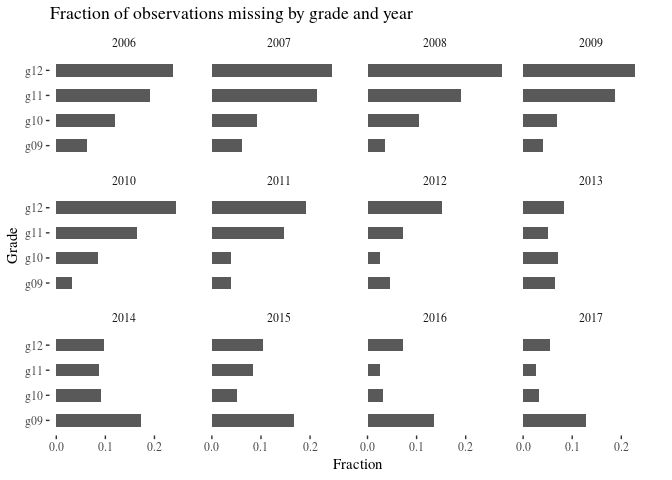
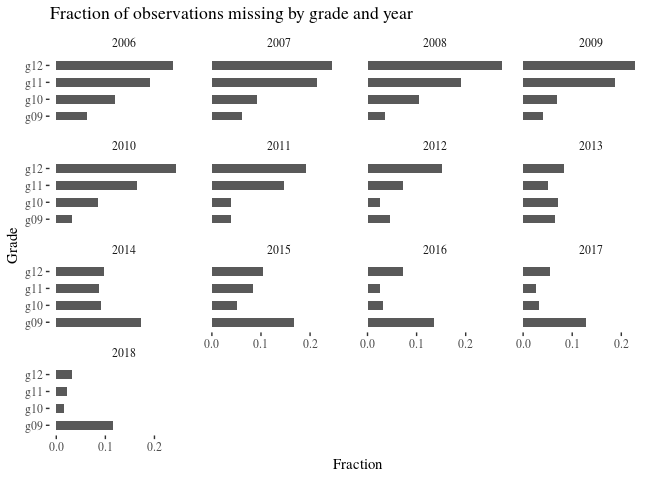
added data_2018.R protocol for first time; updated CPSenrollment and corrected README; updated all figures

diff --git a/README.md b/README.md
@@ -1,14 +1,14 @@
 Introducing CPS Enrollment Datasets
 ================
 Charlotte Mack
-2019-02-07
+February 08, 2019
 
 CPSenrollment
 =============
 
 Exploring enrollment data from the Chicago Public Schools
 
-This repository contains exploratory analysis and visualizations of enrollment data that were extracted from Chicago Public Schools (CPS) public records. The prepared data are available at this repository in Rds and csv formats; at present there are only high school data, with elementary school data forthcoming. The sets span the school years from 2006--2007 through 2016--2017, and will be periodically updated.
+This repository contains exploratory analysis and visualizations of enrollment data that were extracted from Chicago Public Schools (CPS) public records. The prepared data are available at this repository in Rds and csv formats; at present there are only high school data, with elementary school data forthcoming. The sets span the school years from 2006--2007 through 2018--2019, and will be periodically updated.
 
 A glimpse of the high schools data:
 
@@ -37,8 +37,10 @@ A more detailed overview of the all-years enrollment data is in the file [CPSenr
 
 [A brief article with maps of District high schools under regular and other governance for the 2006--2007 and 2016--2017 school years is in the file school\_maps.md.](https://github.com/cymack/CPSenrollment/blob/master/school_maps.md)
 
-[The preparation of the data is described in data.R](https://github.com/cymack/CPSenrollment/blob/master/data.R) and [clean.R](https://github.com/cymack/CPSenrollment/blob/master/clean.R). data.R is a protocol in the form of a script of the first interactive steps that I took in preparing the unified data set. The protocol here takes the data from the original set of annual membership rosters, published in spreadsheets and having various sets and arrangements of variables, to R data.frames of uniform layout. I undertook the project when I was fairly new to R, so it is not as automated as it might be; on the other hand, each year's roster from the Chicago Public Schools has idiosyncrasies that can only be found and worked out manually. clean.R examines missing data more closely and creates a uniform set of names for each school to be used throughout the data.frame.
+[The preparation of the data 2006-2017 is described in data.R](https://github.com/cymack/CPSenrollment/blob/master/data.R) and [clean.R](https://github.com/cymack/CPSenrollment/blob/master/clean.R). data.R is a protocol in the form of a script of the first interactive steps that I took in preparing the unified data set. The protocol here takes the data from the original set of annual membership rosters, published in spreadsheets and having various sets and arrangements of variables, to R data.frames of uniform layout. I undertook the project when I was fairly new to R, so it is not as automated as it might be; on the other hand, each year's roster from the Chicago Public Schools has idiosyncrasies that can only be found and worked out manually. clean.R examines missing data more closely and creates a uniform set of names for each school to be used throughout the data.frame.
 
-Miscellaneous exploratory analysis, mostly in graphs is in [explore.R](https://github.com/cymack/CPSenrollment/blob/master/explore.R).
+[The protocol for the 2018-2019 update is in data\_2018.R](https://github.com/cymack/CPSenrollment/blob/master/data_2018.R), for those who want a more compact overview.
+
+Miscellaneous exploratory analysis, mostly in graphs is in [explorechange a subset with dplyr transmute.R](https://github.com/cymack/CPSenrollment/blob/master/explore.R).
 
 [1] Membership data are under the heading "Demographics."

diff --git a/CPSenrollment.md b/CPSenrollment.md
@@ -3,24 +3,25 @@ A CPS Enrollment Dataset
 Charlotte Mack
 November 16, 2018
 
+Last updated February 08, 2019.
 NB: This document is under construction! Comments are welcome.
 
 This repository contains exploratory analysis and visualizations of enrollment data that were extracted from Chicago Public Schools (CPS) public records. The prepared data are available at this repository in Rds and csv formats; at present there are only high school data, with elementary school data forthcoming. The sets span the school years from 2006--2007 through 2017--2018, and will be periodically updated.
 
 A glimpse of the high schools data:
 
-    ## Observations: 1,914
+    ## Observations: 2,097
     ## Variables: 10
-    ## $ govern      <fct> regular, regular, regular, regular, regular, regul...
-    ## $ school_id   <int> 610245, 609695, 609696, 610402, 609708, 609716, 60...
-    ## $ common_name <chr> "Douglass HS", "Amundsen HS", "Austin HS", "DeVry ...
-    ## $ year        <dbl> 2006, 2006, 2006, 2006, 2006, 2006, 2006, 2006, 20...
-    ## $ total       <int> 737, 1500, 580, 223, 1738, 1694, 1439, 4278, 1936,...
-    ## $ total_hs    <dbl> 384, 1500, 580, 223, 1738, 1694, 1439, 4278, 1936,...
-    ## $ g09         <int> 215, 435, NA, NA, 606, 510, 513, 1103, 578, 254, 2...
-    ## $ g10         <int> 119, 438, NA, NA, 504, 419, 331, 945, 546, 254, 30...
-    ## $ g11         <int> 50, 361, 367, 107, 380, 371, 291, 1230, 403, NA, 2...
-    ## $ g12         <int> NA, 266, 213, 116, 248, 394, 304, 1000, 409, NA, 2...
+    ## $ govern      <chr> "regular", "regular", "regular", "regular", "regular…
+    ## $ school_id   <chr> "610245", "609695", "609696", "610402", "609708", "6…
+    ## $ common_name <chr> "Douglass HS", "Amundsen HS", "Austin HS", "DeVry Ad…
+    ## $ year        <dbl> 2006, 2006, 2006, 2006, 2006, 2006, 2006, 2006, 2006…
+    ## $ total       <dbl> 737, 1500, 580, 223, 1738, 1694, 1439, 4278, 1936, 5…
+    ## $ total_hs    <dbl> 384, 1500, 580, 223, 1738, 1694, 1439, 4278, 1936, 5…
+    ## $ g09         <dbl> 215, 435, NA, NA, 606, 510, 513, 1103, 578, 254, 262…
+    ## $ g10         <dbl> 119, 438, NA, NA, 504, 419, 331, 945, 546, 254, 305,…
+    ## $ g11         <dbl> 50, 361, 367, 107, 380, 371, 291, 1230, 403, NA, 267…
+    ## $ g12         <dbl> NA, 266, 213, 116, 248, 394, 304, 1000, 409, NA, 208…
 
 Visualization of the structure, using DataExplorer package:
 
@@ -29,11 +30,11 @@ library(DataExplorer)
 plot_str(enrollment)
 ```
 
-Number of schools represented in the data: 247
+Number of schools represented in the data: 248
 
 Number of schools for which there are data for all years in the period:
 
-    ## [1] 86
+    ## [1] 6
 
 Missing observations could be a key feature of the CPS enrollment dataset in some applications, because many of them are not generated randomly but as a result of the entry and exit of schools from the CPS roster. These processes often result in grades being phased in or out at the transitioning school. The next few exhibits concern missing points on some or all data where the school does have a record for the year. The case not considered at the moment is truncation when a school does not exist for some years --a form of hidden missing observations so to speak.
 
